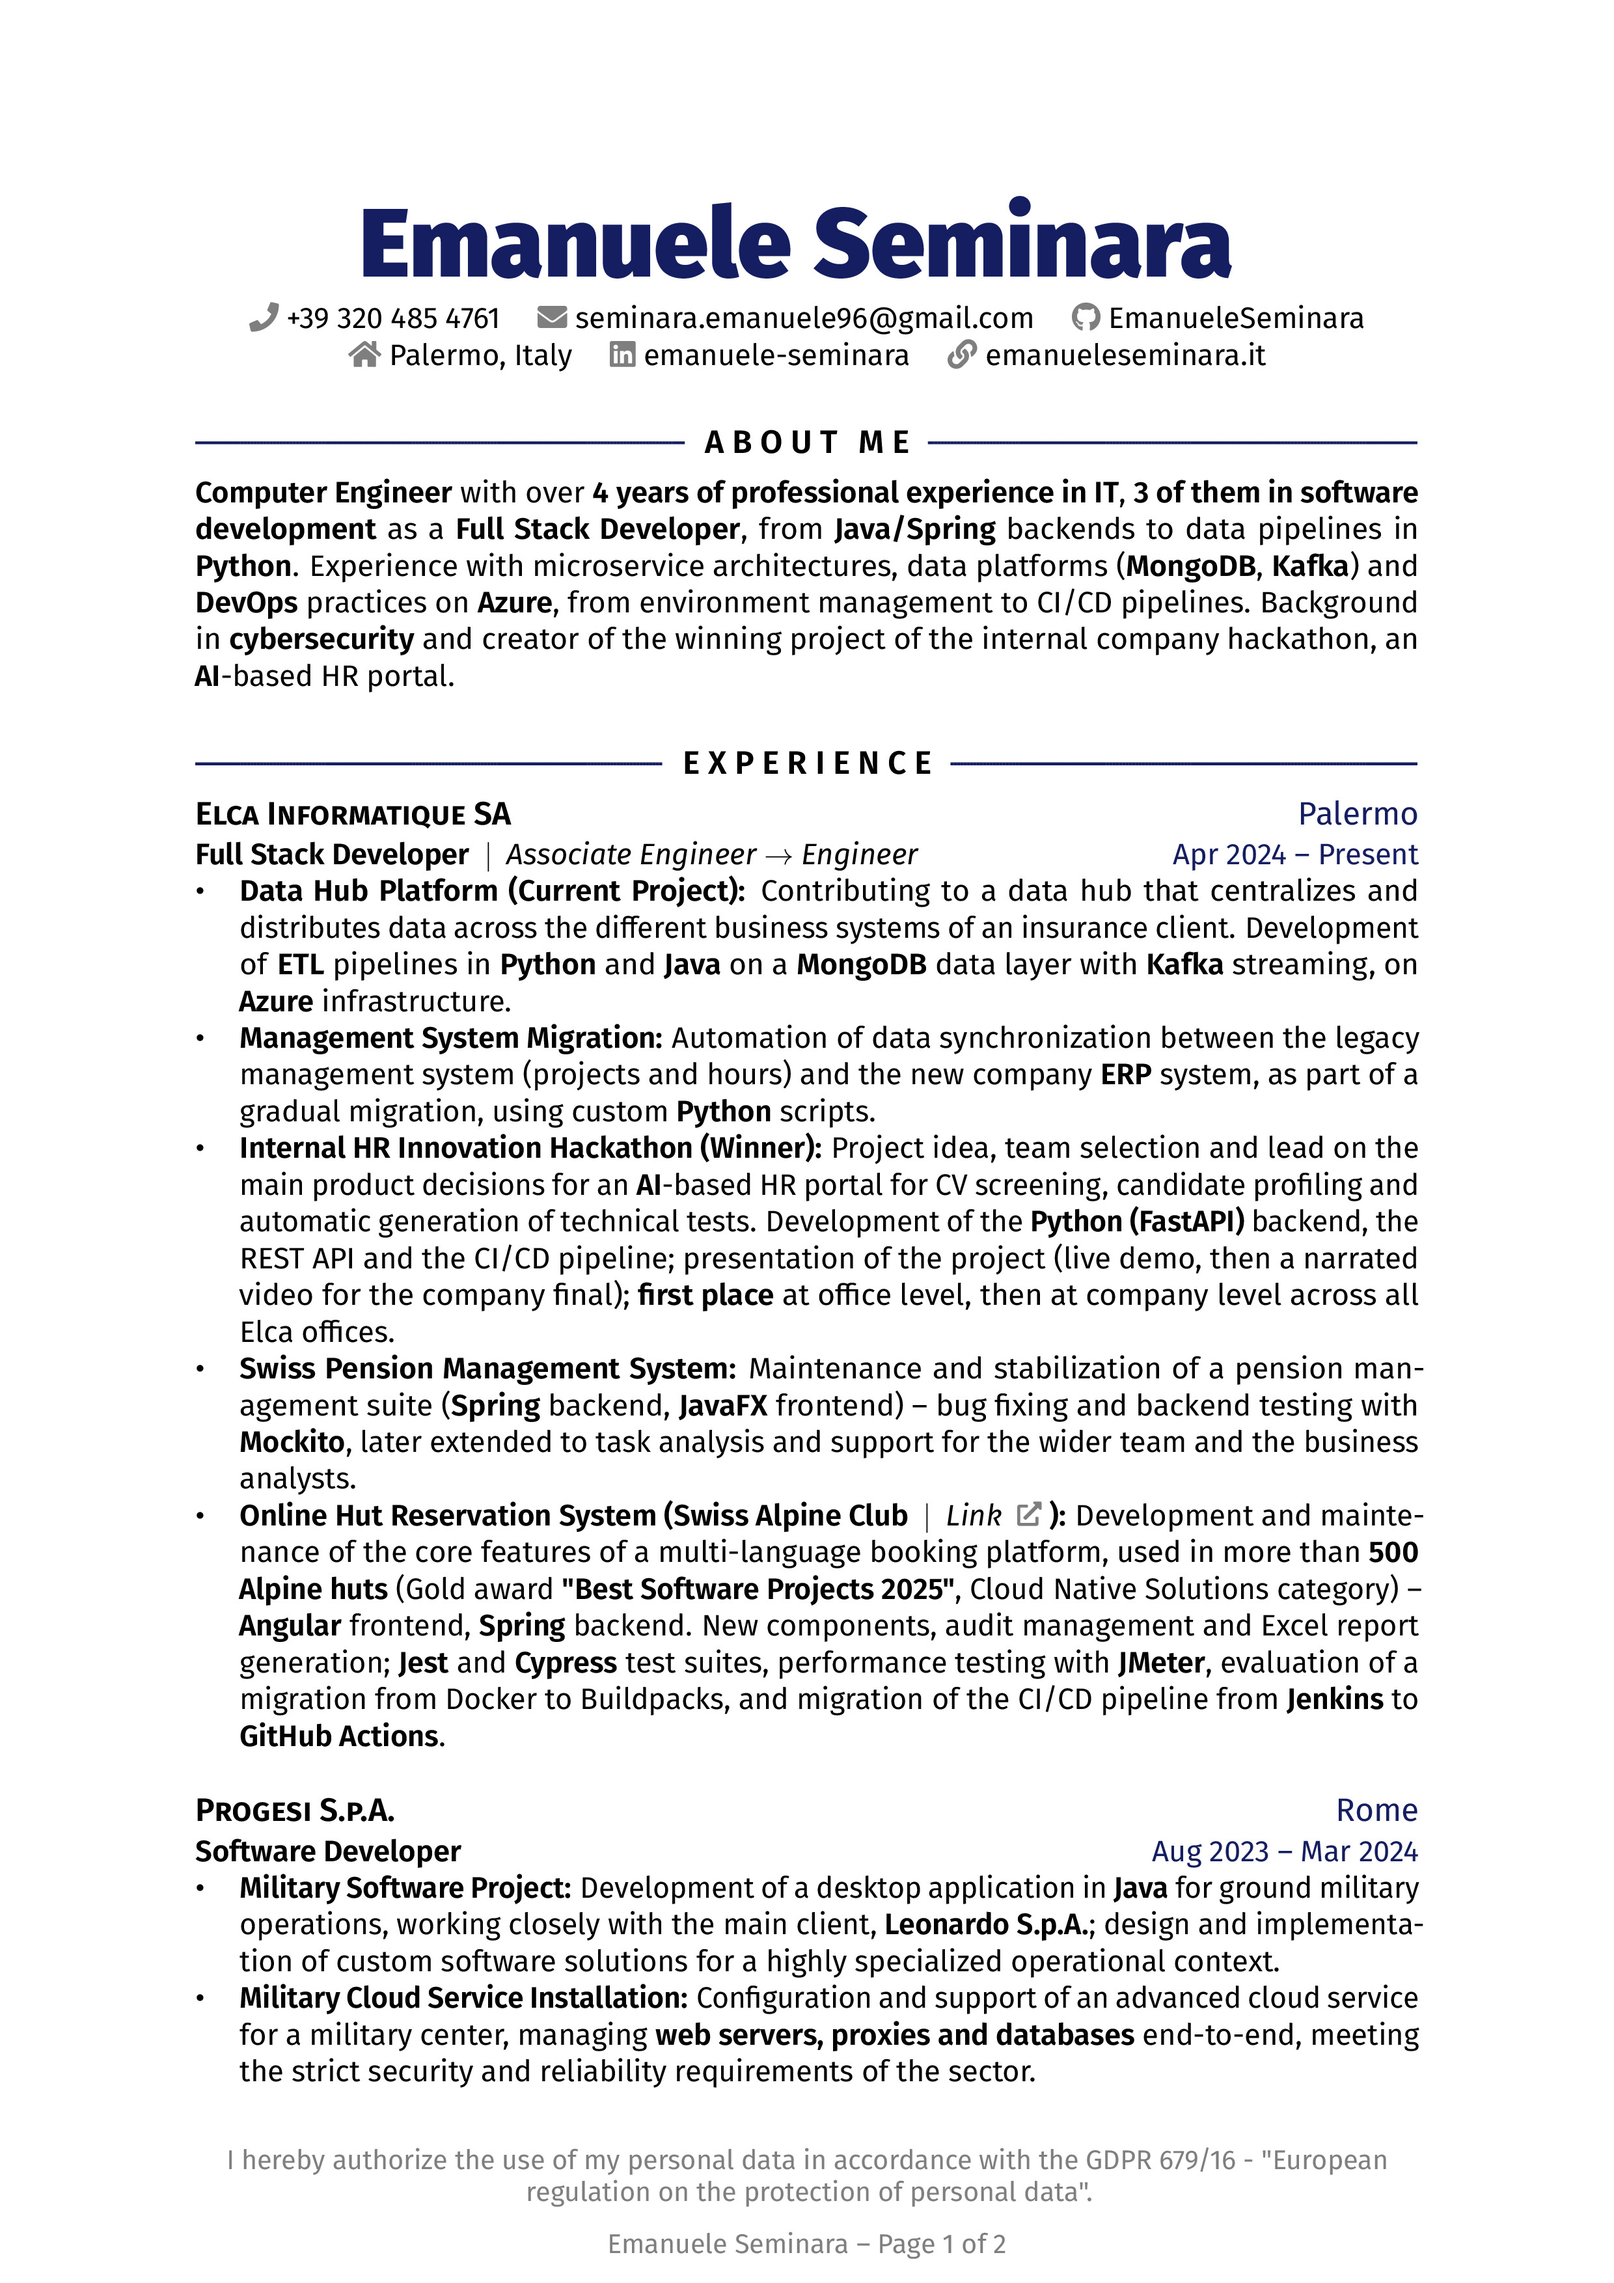
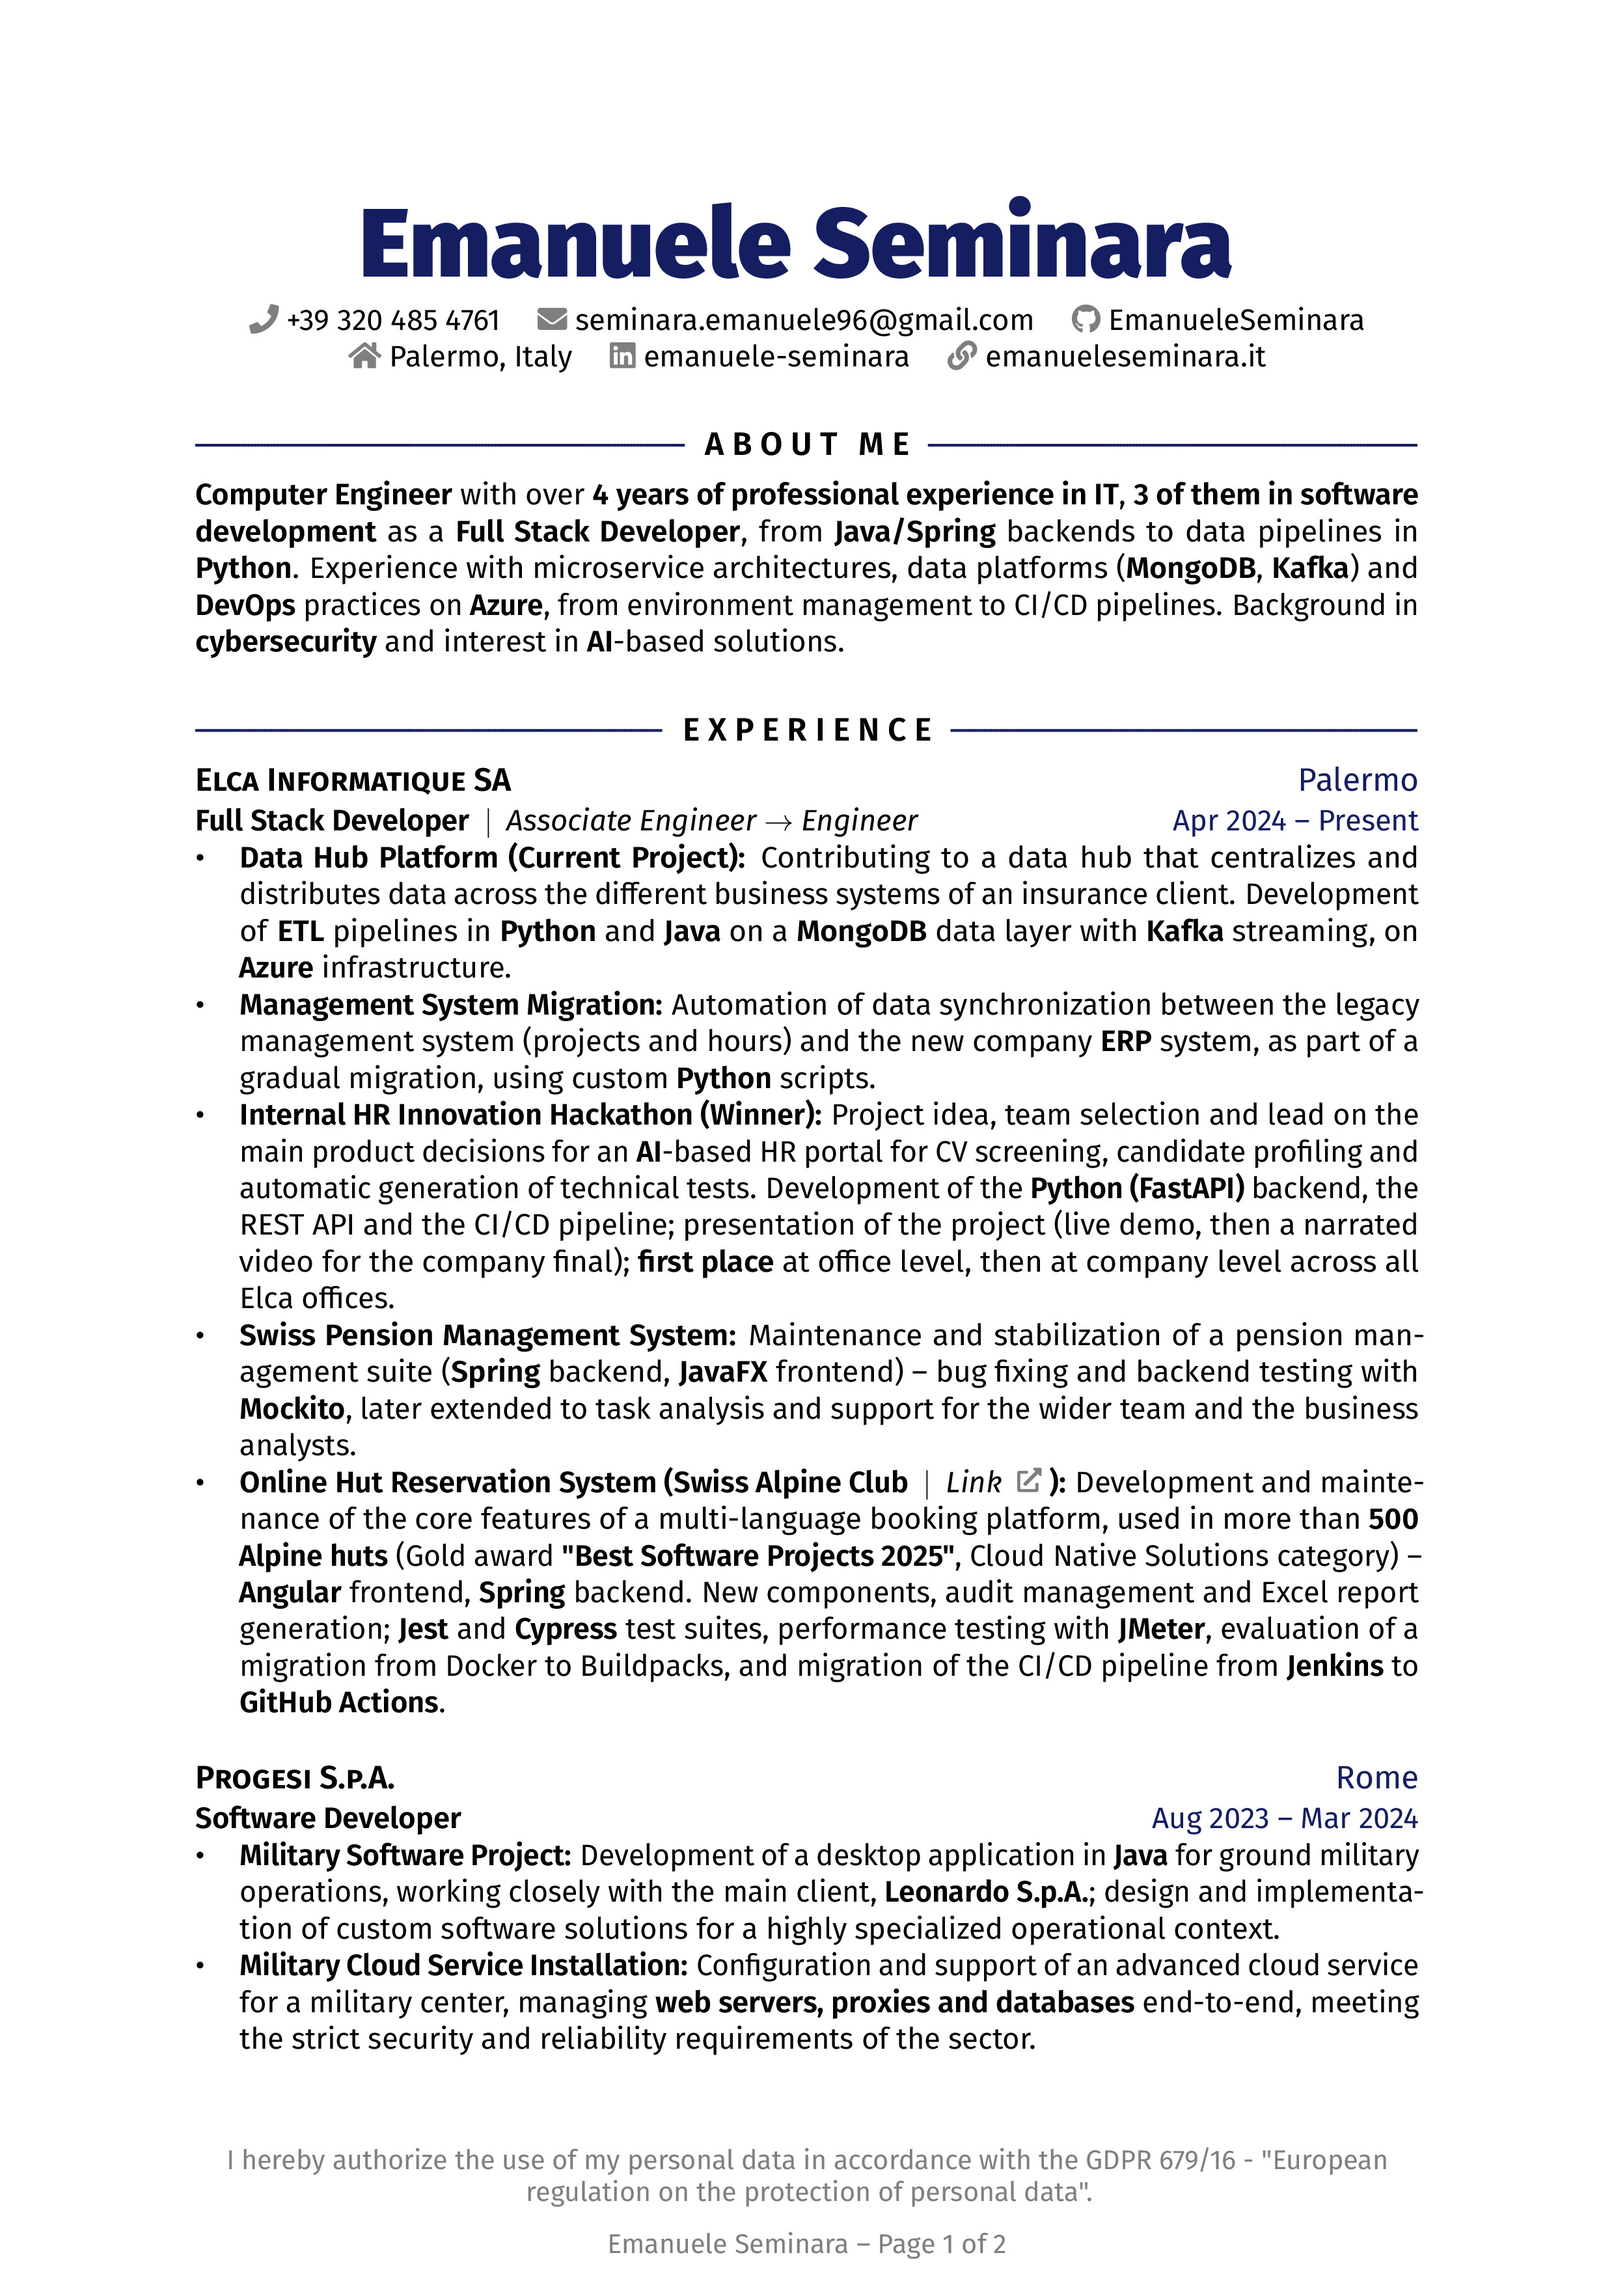
Refine About me section - v3.1

diff --git a/Emanuele_Seminara_CV_ENG.tex b/Emanuele_Seminara_CV_ENG.tex
@@ -111,7 +111,7 @@ Emanuele Seminara -- Page \thepage\ of \pageref*{LastPage}}
 
 \section{About me}
 %==========
-\noindent \textbf{Computer Engineer} with over \textbf{4 years of professional experience in IT}, \textbf{3 of them in software development} as a \textbf{Full Stack Developer}, from \textbf{Java/Spring} backends to data pipelines in \textbf{Python}. Experience with microservice architectures, data platforms (\textbf{MongoDB}, \textbf{Kafka}) and \textbf{DevOps} practices on \textbf{Azure}, from environment management to CI/CD pipelines. Background in \textbf{cybersecurity} and creator of the winning project of the internal company hackathon, an \textbf{AI}-based HR portal.
+\noindent \textbf{Computer Engineer} with over \textbf{4 years of professional experience in IT}, \textbf{3 of them in software development} as a \textbf{Full Stack Developer}, from \textbf{Java/Spring} backends to data pipelines in \textbf{Python}. Experience with microservice architectures, data platforms (\textbf{MongoDB}, \textbf{Kafka}) and \textbf{DevOps} practices on \textbf{Azure}, from environment management to CI/CD pipelines. Background in \textbf{cybersecurity} and interest in \textbf{AI}-based solutions.
 
 \section{Experience}
 %==========

diff --git a/README.md b/README.md
@@ -1,6 +1,6 @@
 # [![emanueleseminara.it](https://github.com/EmanueleSeminara/images/blob/main/logo_e_20x20.png?raw=true)](https://emanueleseminara.it/) Rover Resume - LaTeX CV [![emanueleseminara.it](https://github.com/EmanueleSeminara/images/blob/main/logo_e_20x20.png?raw=true)](https://emanueleseminara.it/)
 
-v3.0 (17 September 2026) by Emanuele Seminara
+v3.1 (17 September 2026) by Emanuele Seminara
 
 [For the Italian version Click Here](https://github.com/EmanueleSeminara/LaTeX_resume/tree/ITA)
 
